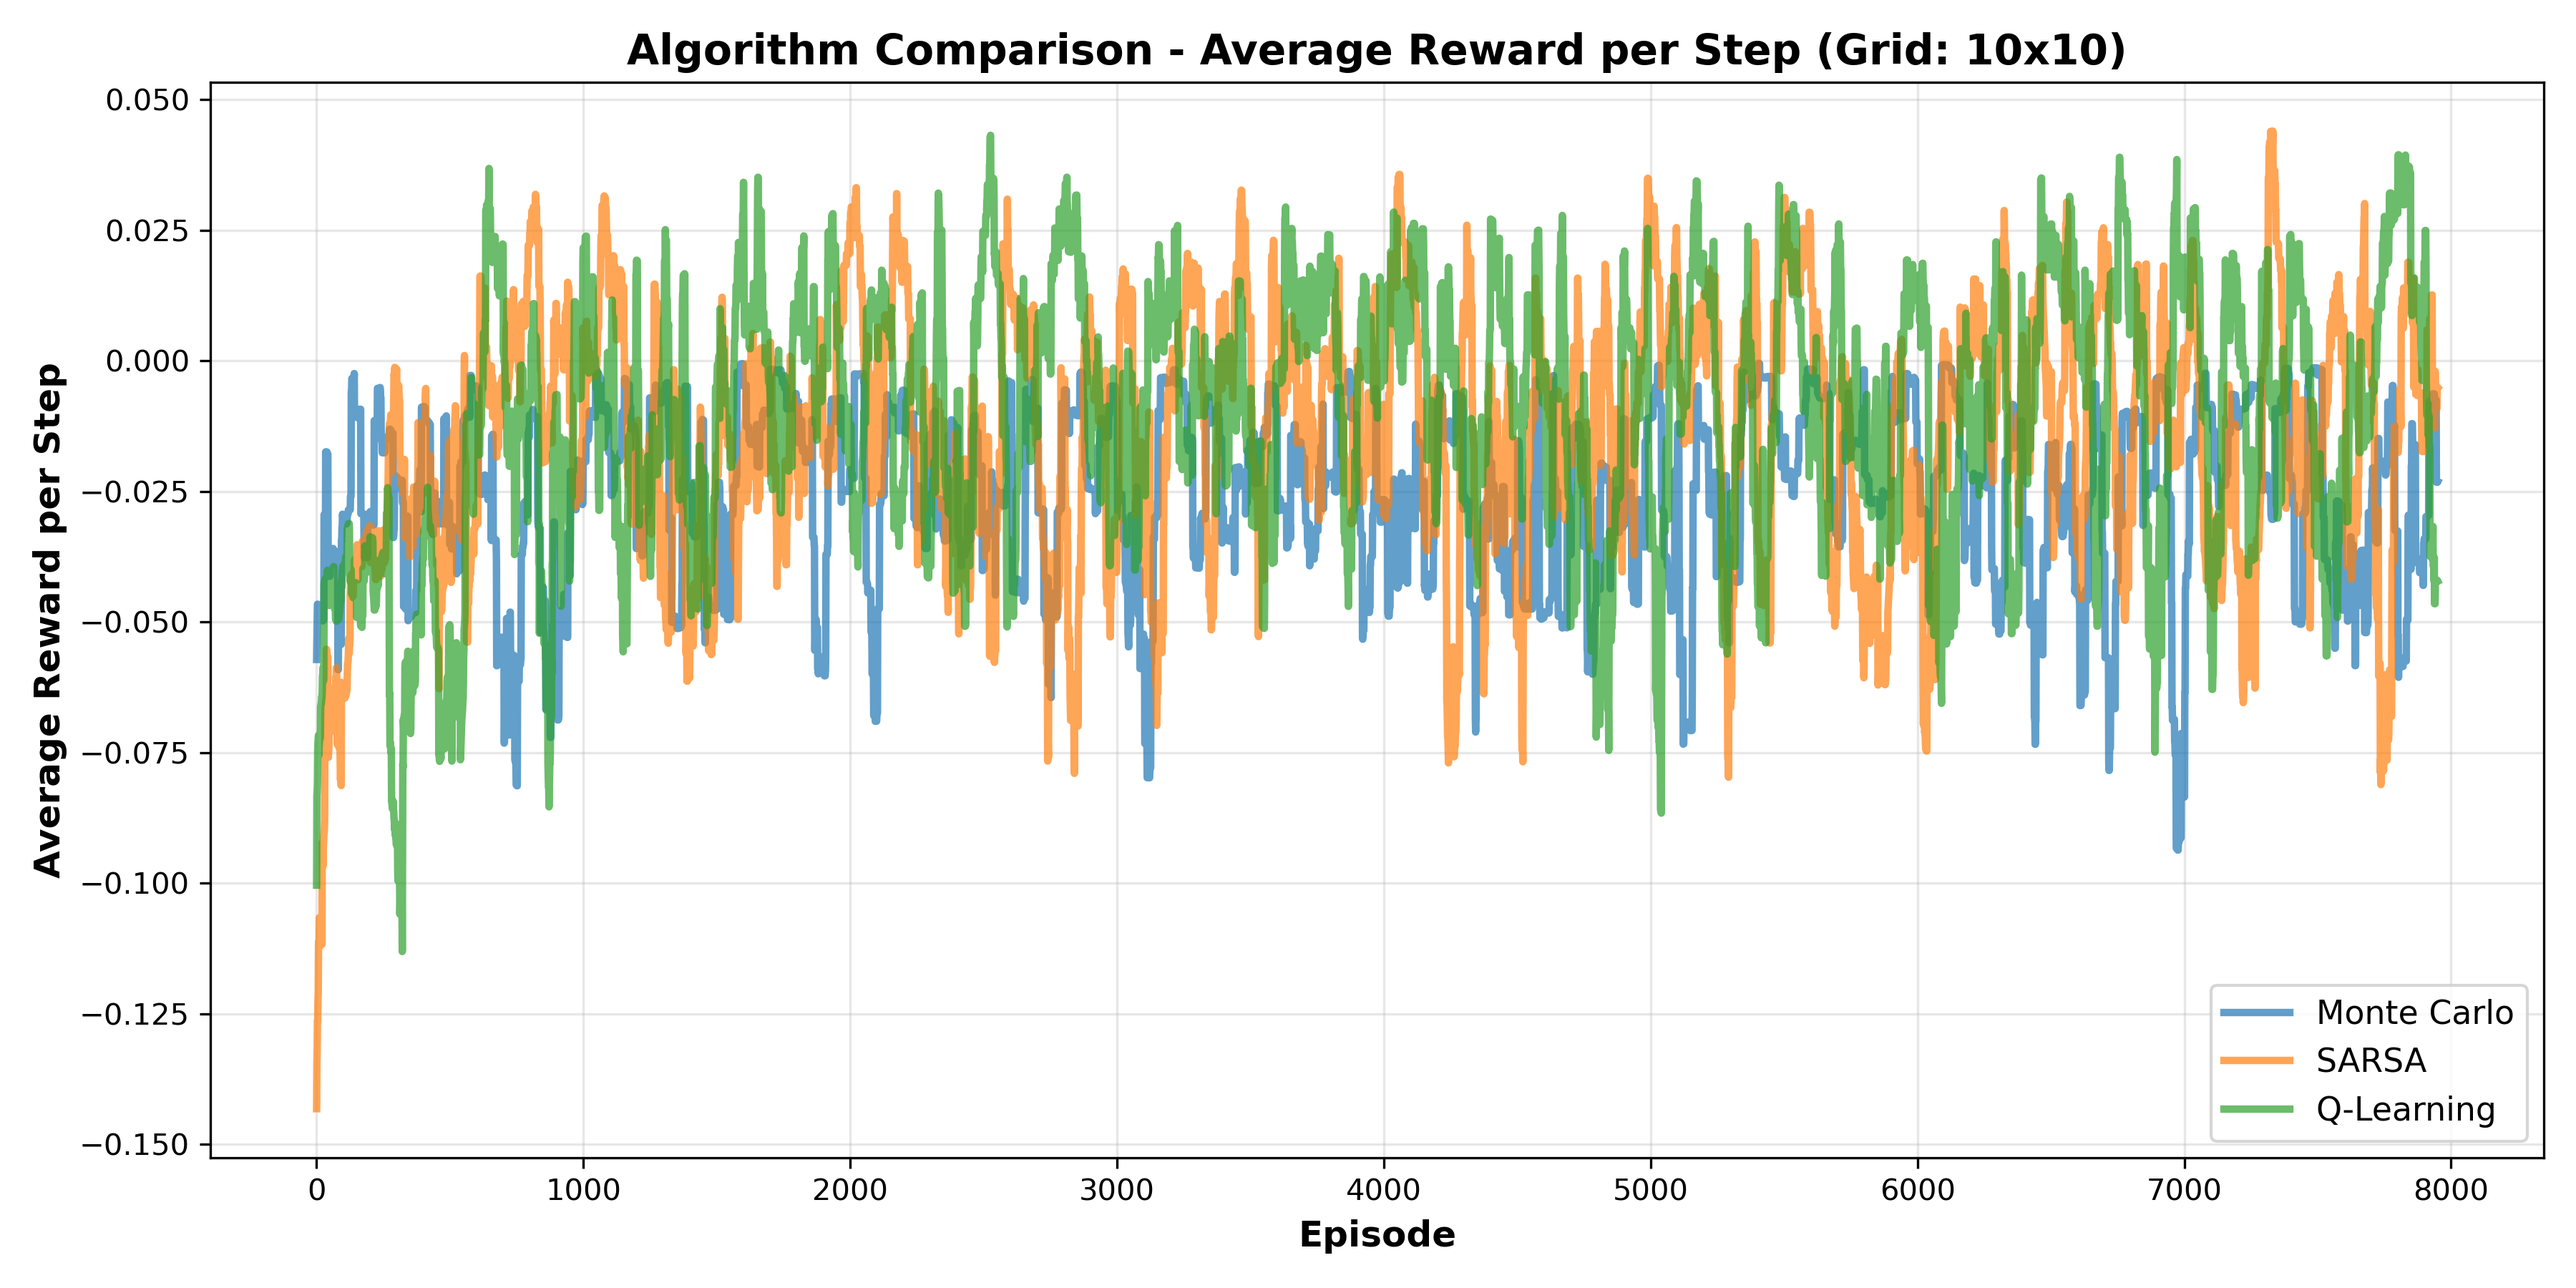
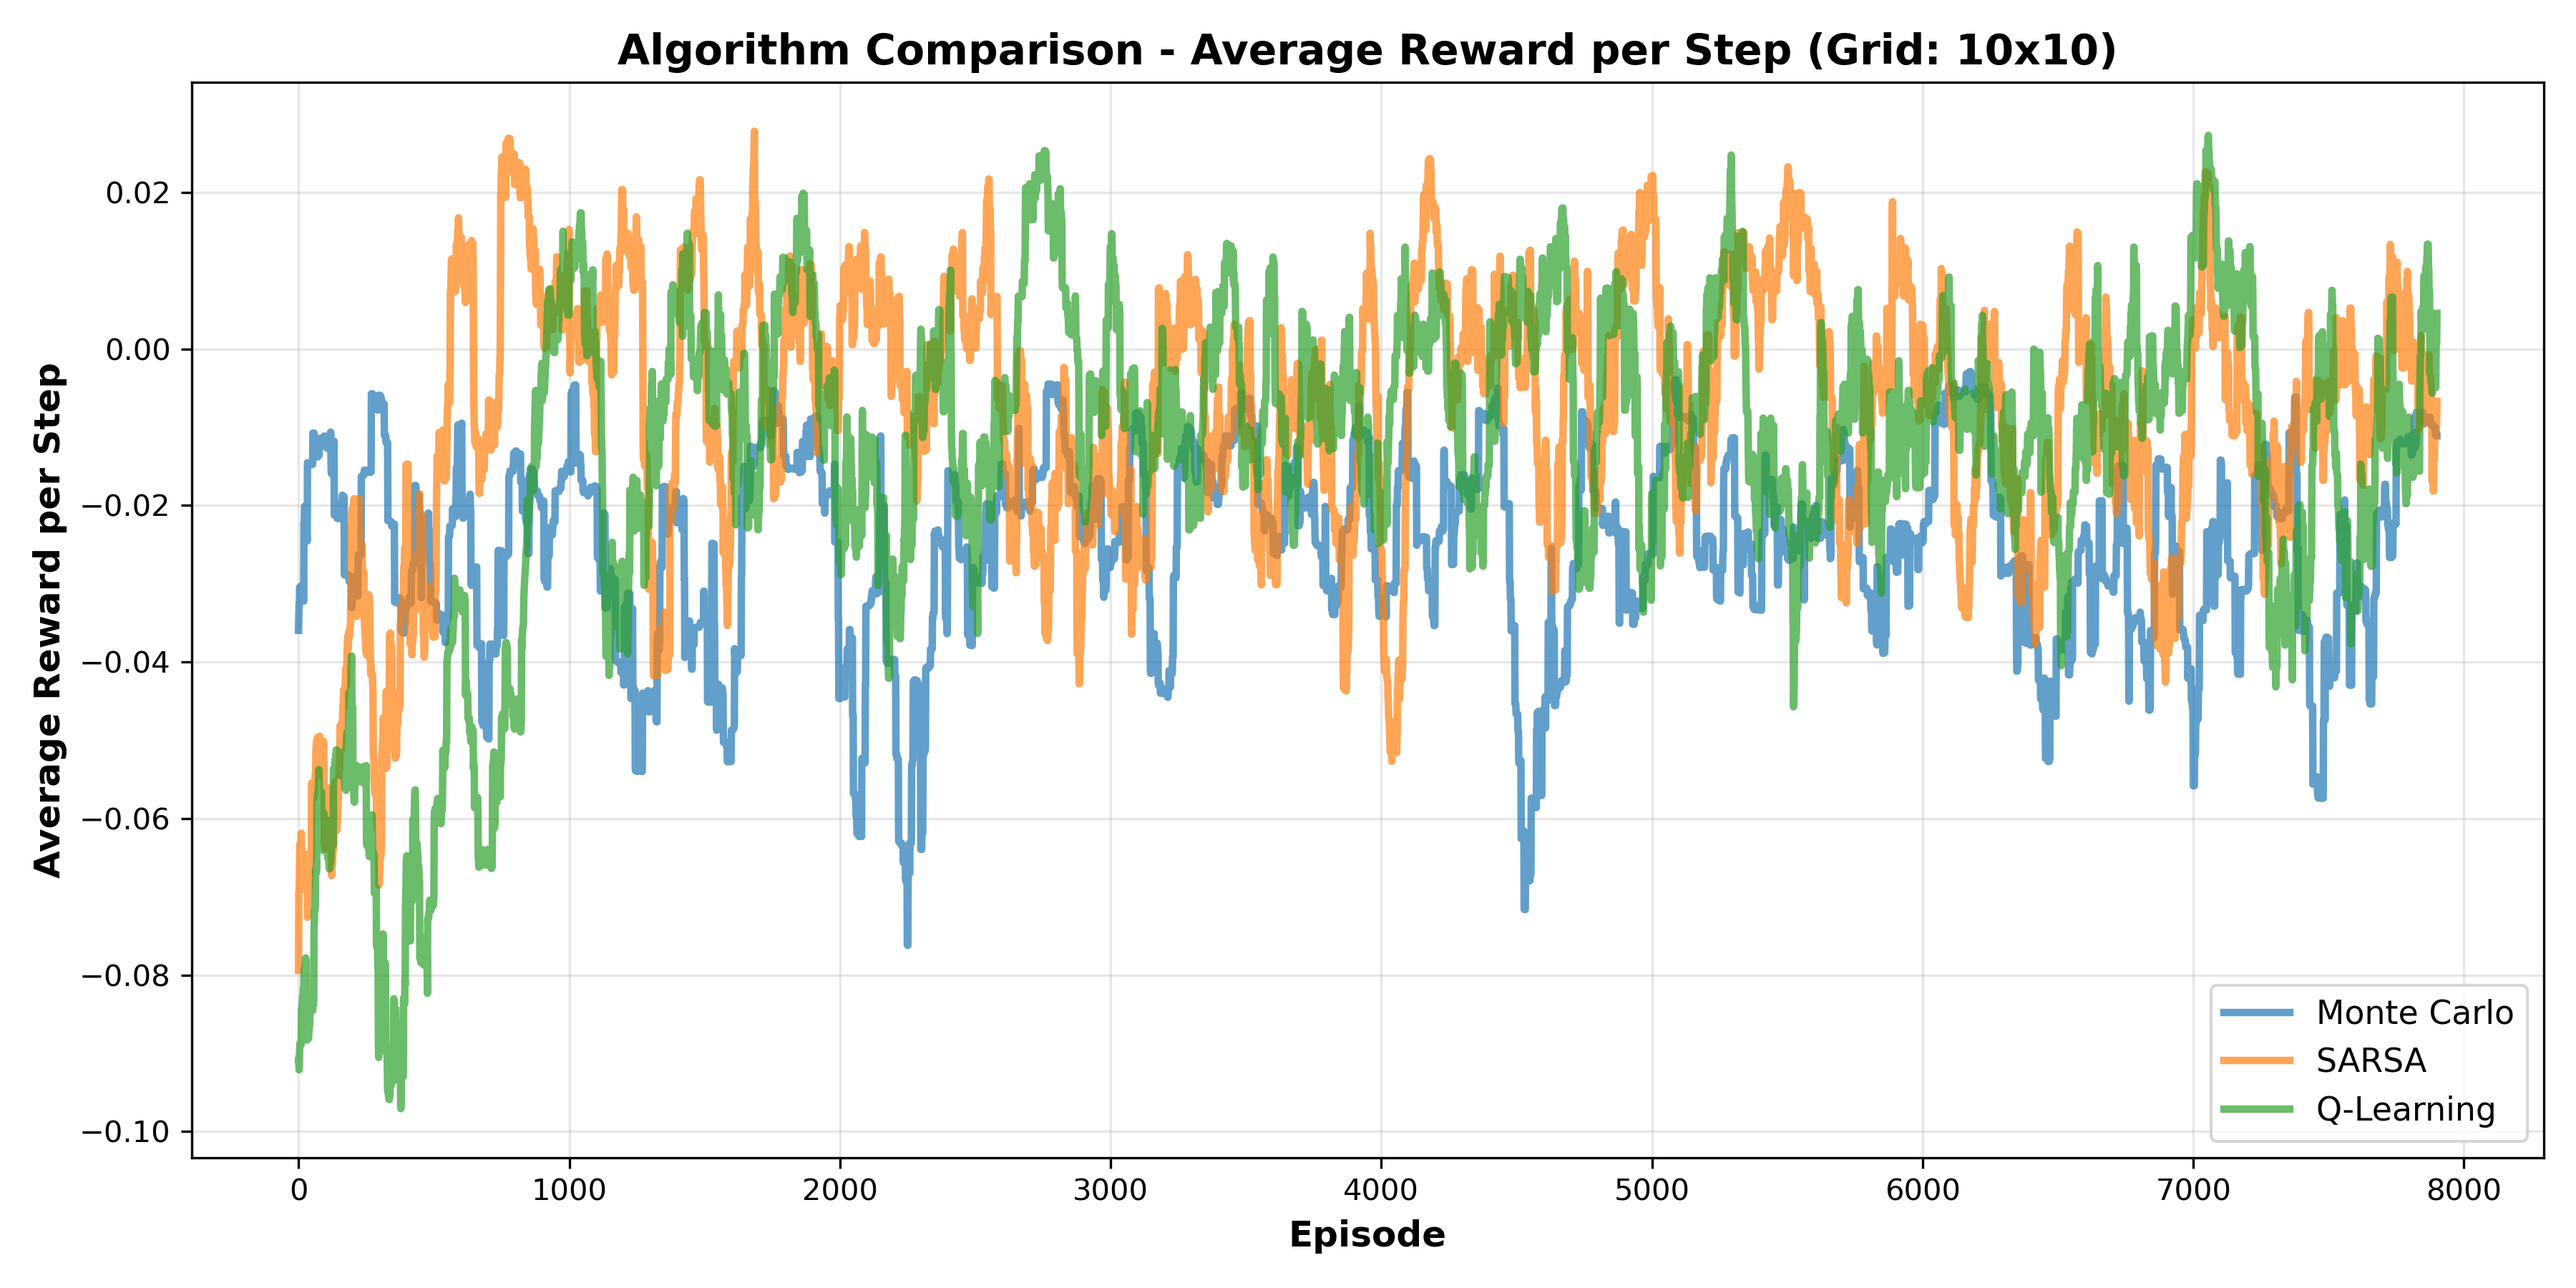
Increase moving average window size to 100 for better noise reduction

diff --git a/algorithm_comparison.py b/algorithm_comparison.py
@@ -108,7 +108,7 @@ def plot_metrics(all_stats, results_dir):
     # Prepare data
     algorithms = list(all_stats.keys())
     colors = {'Monte Carlo': '#1f77b4', 'SARSA': '#ff7f0e', 'Q-Learning': '#2ca02c'}
-    window_size = 50  # Moving average window size
+    window_size = 100  # Moving average window size
     
     # Plot 1: total steps vs episode
     fig, ax = plt.subplots(figsize=(12, 6))

diff --git a/parameter.py b/parameter.py
@@ -1,8 +1,8 @@
 import os
 
 # environment parameters
-GRID_SIZE = 4 # size of map
-NUM_EPISODES = 2000  # number of episodes for training (2000 for 4x4, 8000 for 10x10)
+GRID_SIZE = 10 # size of map
+NUM_EPISODES = 8000  # number of episodes for training (2000 for 4x4, 8000 for 10x10)
 
 # tuning parameter ranges
 LEARNING_RATE_VALUES = [0.05, 0.1, 0.2, 0.3]  # Learning rates to test
